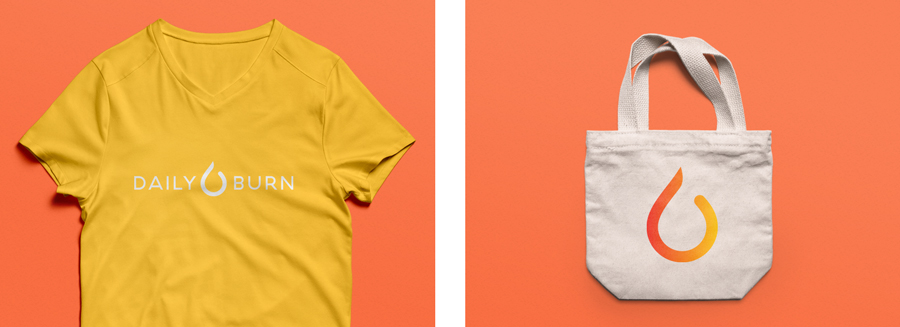
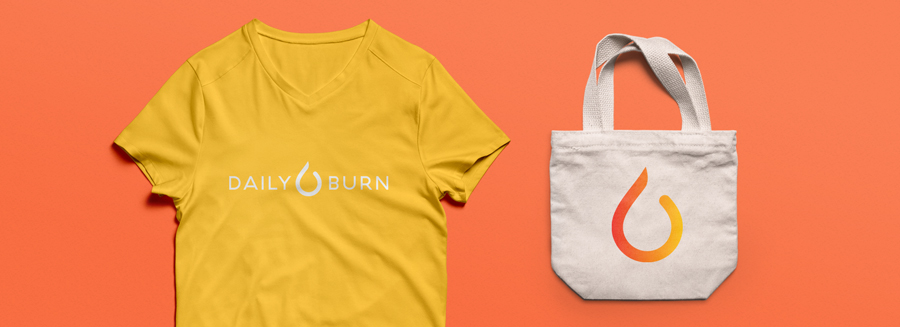
changed merch image

diff --git a/project/daily-burn--daily-burn-365/index.html b/project/daily-burn--daily-burn-365/index.html
@@ -5,7 +5,7 @@
     <meta http-equiv="X-UA-Compatible" content="IE=edge,chrome=1">
     <meta name="viewport" content="width=device-width,initial-scale=1">
     <meta name="description" content="Hi! I'm Angela, a Senior Designer based in New York City. Get in touch!">
-    <meta name="generator" content="Hugo 0.40.3" />
+    <meta name="generator" content="Hugo 0.39" />
     <link rel="apple-touch-icon" sizes="180x180" href="/img/apple-touch-icon.png">
     <link rel="icon" type="image/png" sizes="32x32" href="/img/favicon-32x32.png">
     <link rel="icon" type="image/png" sizes="16x16" href="/img/favicon-16x16.png">
@@ -130,7 +130,13 @@
   
   
   
-  <img src="/project/daily-burn--daily-burn-365/12_365_project_image.jpg">
+  <img src="/project/daily-burn--daily-burn-365/12_365_project_merch.jpg">
+  
+  
+  
+  
+  
+  <img src="/project/daily-burn--daily-burn-365/13_365_project_image.jpg">
   
   
   

diff --git a/about/index.html b/about/index.html
@@ -5,7 +5,7 @@
     <meta http-equiv="X-UA-Compatible" content="IE=edge,chrome=1">
     <meta name="viewport" content="width=device-width,initial-scale=1">
     <meta name="description" content="Hi! I'm Angela, a Senior Designer based in New York City. Get in touch!">
-    <meta name="generator" content="Hugo 0.40.3" />
+    <meta name="generator" content="Hugo 0.39" />
     <link rel="apple-touch-icon" sizes="180x180" href="/img/apple-touch-icon.png">
     <link rel="icon" type="image/png" sizes="32x32" href="/img/favicon-32x32.png">
     <link rel="icon" type="image/png" sizes="16x16" href="/img/favicon-16x16.png">

diff --git a/contact/index.html b/contact/index.html
@@ -5,7 +5,7 @@
     <meta http-equiv="X-UA-Compatible" content="IE=edge,chrome=1">
     <meta name="viewport" content="width=device-width,initial-scale=1">
     <meta name="description" content="Hi! I'm Angela, a Senior Designer based in New York City. Get in touch!">
-    <meta name="generator" content="Hugo 0.40.3" />
+    <meta name="generator" content="Hugo 0.39" />
     <link rel="apple-touch-icon" sizes="180x180" href="/img/apple-touch-icon.png">
     <link rel="icon" type="image/png" sizes="32x32" href="/img/favicon-32x32.png">
     <link rel="icon" type="image/png" sizes="16x16" href="/img/favicon-16x16.png">

diff --git a/index.html b/index.html
@@ -5,7 +5,7 @@
     <meta http-equiv="X-UA-Compatible" content="IE=edge,chrome=1">
     <meta name="viewport" content="width=device-width,initial-scale=1">
     <meta name="description" content="Hi! I'm Angela, a Senior Designer based in New York City. Get in touch!">
-    <meta name="generator" content="Hugo 0.40.3" />
+    <meta name="generator" content="Hugo 0.39" />
     <link rel="apple-touch-icon" sizes="180x180" href="/img/apple-touch-icon.png">
     <link rel="icon" type="image/png" sizes="32x32" href="/img/favicon-32x32.png">
     <link rel="icon" type="image/png" sizes="16x16" href="/img/favicon-16x16.png">

diff --git a/project/a-lovely-party/index.html b/project/a-lovely-party/index.html
@@ -5,7 +5,7 @@
     <meta http-equiv="X-UA-Compatible" content="IE=edge,chrome=1">
     <meta name="viewport" content="width=device-width,initial-scale=1">
     <meta name="description" content="Hi! I'm Angela, a Senior Designer based in New York City. Get in touch!">
-    <meta name="generator" content="Hugo 0.40.3" />
+    <meta name="generator" content="Hugo 0.39" />
     <link rel="apple-touch-icon" sizes="180x180" href="/img/apple-touch-icon.png">
     <link rel="icon" type="image/png" sizes="32x32" href="/img/favicon-32x32.png">
     <link rel="icon" type="image/png" sizes="16x16" href="/img/favicon-16x16.png">

diff --git a/project/barre-harmony/index.html b/project/barre-harmony/index.html
@@ -5,7 +5,7 @@
     <meta http-equiv="X-UA-Compatible" content="IE=edge,chrome=1">
     <meta name="viewport" content="width=device-width,initial-scale=1">
     <meta name="description" content="Hi! I'm Angela, a Senior Designer based in New York City. Get in touch!">
-    <meta name="generator" content="Hugo 0.40.3" />
+    <meta name="generator" content="Hugo 0.39" />
     <link rel="apple-touch-icon" sizes="180x180" href="/img/apple-touch-icon.png">
     <link rel="icon" type="image/png" sizes="32x32" href="/img/favicon-32x32.png">
     <link rel="icon" type="image/png" sizes="16x16" href="/img/favicon-16x16.png">

diff --git a/project/illos/index.html b/project/illos/index.html
@@ -5,7 +5,7 @@
     <meta http-equiv="X-UA-Compatible" content="IE=edge,chrome=1">
     <meta name="viewport" content="width=device-width,initial-scale=1">
     <meta name="description" content="Hi! I'm Angela, a Senior Designer based in New York City. Get in touch!">
-    <meta name="generator" content="Hugo 0.40.3" />
+    <meta name="generator" content="Hugo 0.39" />
     <link rel="apple-touch-icon" sizes="180x180" href="/img/apple-touch-icon.png">
     <link rel="icon" type="image/png" sizes="32x32" href="/img/favicon-32x32.png">
     <link rel="icon" type="image/png" sizes="16x16" href="/img/favicon-16x16.png">

diff --git a/project/logos/index.html b/project/logos/index.html
@@ -5,7 +5,7 @@
     <meta http-equiv="X-UA-Compatible" content="IE=edge,chrome=1">
     <meta name="viewport" content="width=device-width,initial-scale=1">
     <meta name="description" content="Hi! I'm Angela, a Senior Designer based in New York City. Get in touch!">
-    <meta name="generator" content="Hugo 0.40.3" />
+    <meta name="generator" content="Hugo 0.39" />
     <link rel="apple-touch-icon" sizes="180x180" href="/img/apple-touch-icon.png">
     <link rel="icon" type="image/png" sizes="32x32" href="/img/favicon-32x32.png">
     <link rel="icon" type="image/png" sizes="16x16" href="/img/favicon-16x16.png">

diff --git a/project/undefeated/index.html b/project/undefeated/index.html
@@ -5,7 +5,7 @@
     <meta http-equiv="X-UA-Compatible" content="IE=edge,chrome=1">
     <meta name="viewport" content="width=device-width,initial-scale=1">
     <meta name="description" content="Hi! I'm Angela, a Senior Designer based in New York City. Get in touch!">
-    <meta name="generator" content="Hugo 0.40.3" />
+    <meta name="generator" content="Hugo 0.39" />
     <link rel="apple-touch-icon" sizes="180x180" href="/img/apple-touch-icon.png">
     <link rel="icon" type="image/png" sizes="32x32" href="/img/favicon-32x32.png">
     <link rel="icon" type="image/png" sizes="16x16" href="/img/favicon-16x16.png">
